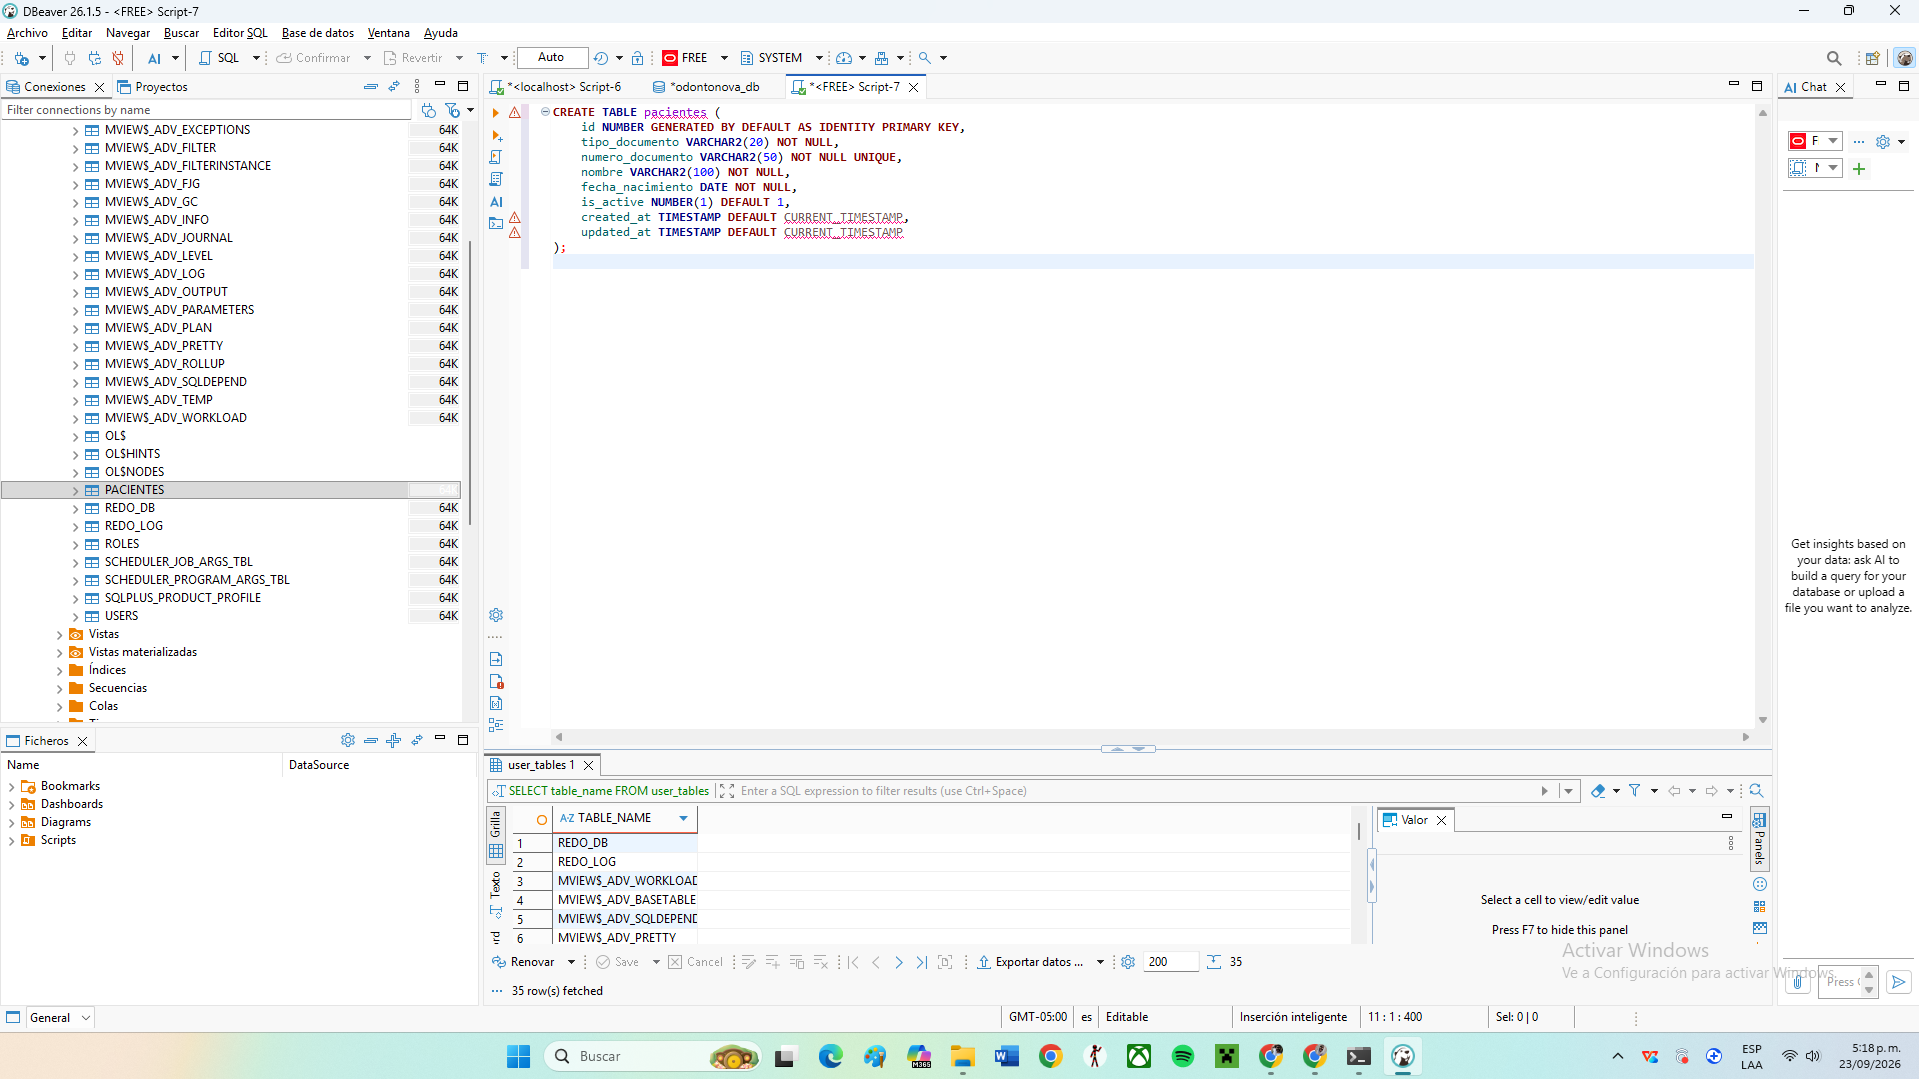
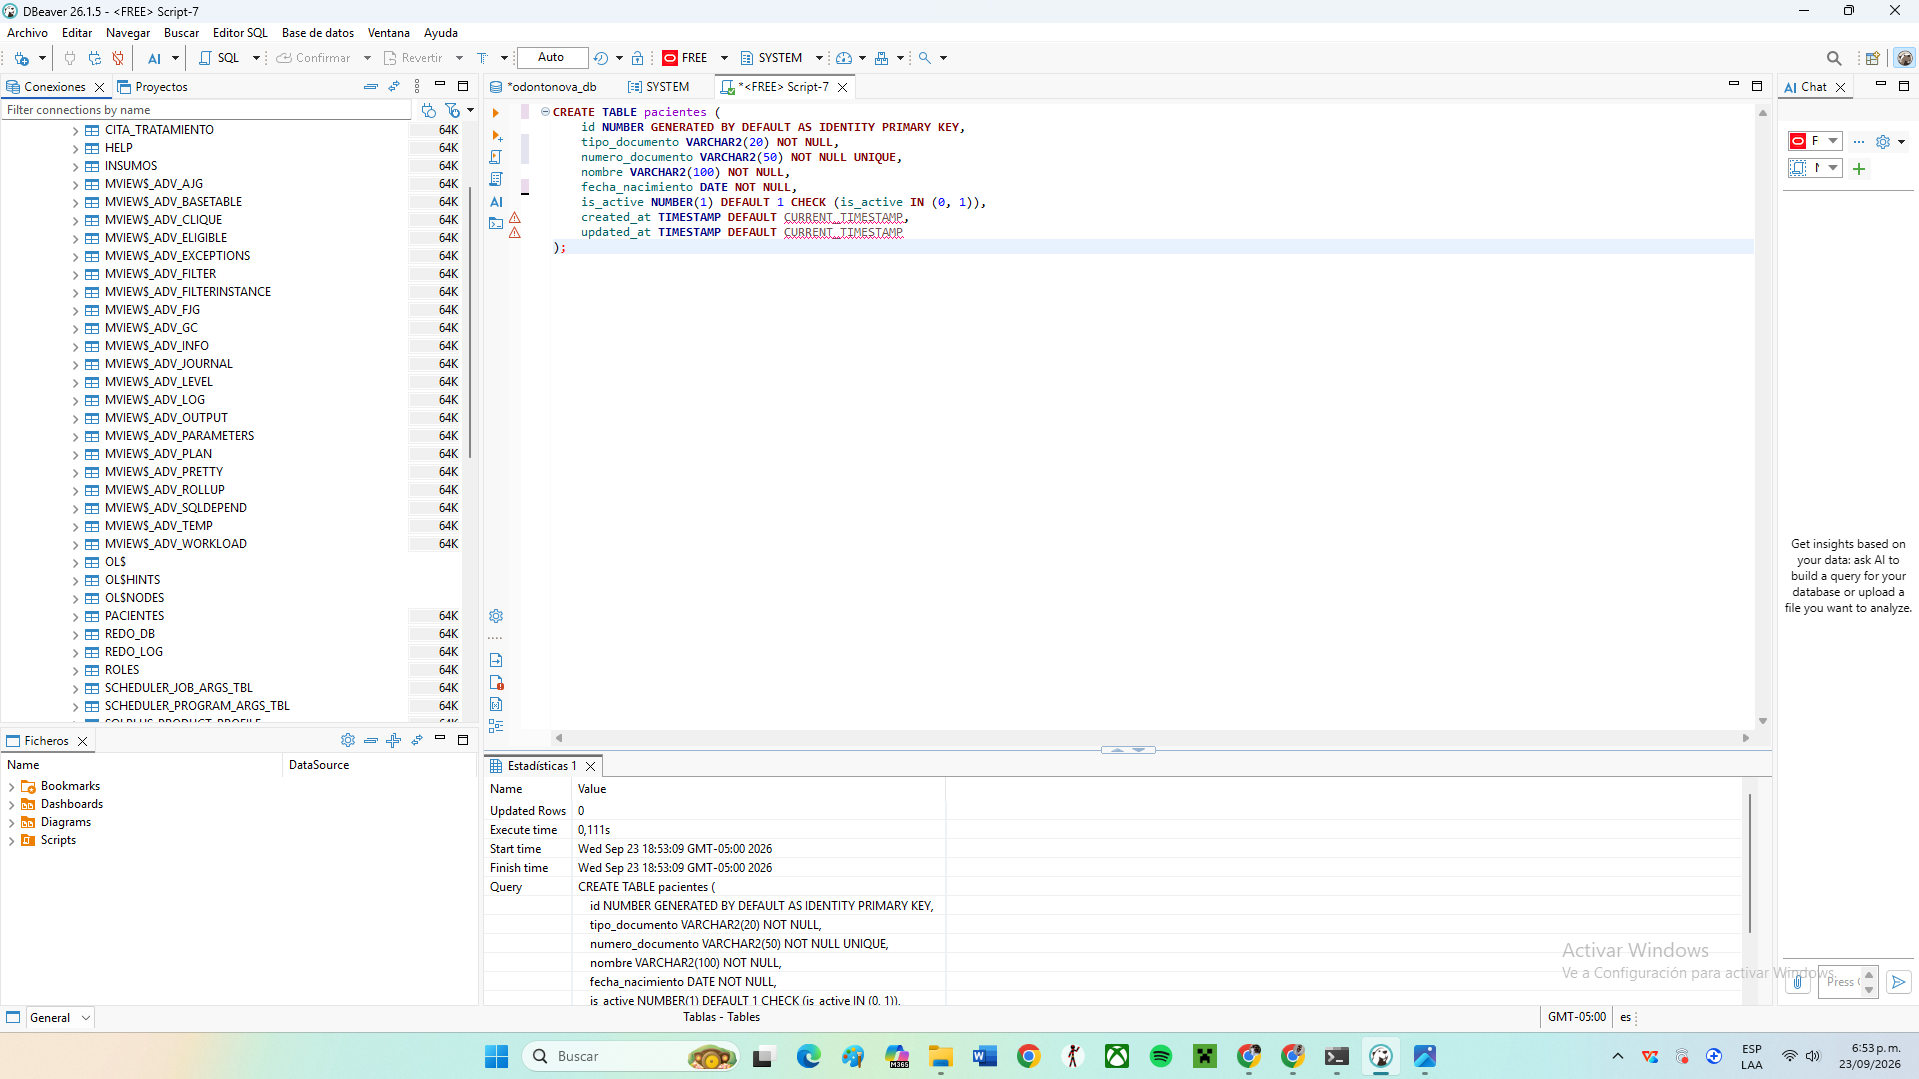
feat: migración completa de OdontoNova a Oracle Database (10 tablas, DDL, DML y evidencias)

diff --git a/OdontoNova/motores/Oracle/README.md b/OdontoNova/motores/Oracle/README.md
@@ -1,52 +1,50 @@
-# 🦷 Migración de OdontoNova a Oracle Database
+# OdontoNova - Implementación en Oracle Database
 
-Documentación y evidencias del proceso de migración del esquema de base de datos **OdontoNova** desde MySQL a **Oracle Database** utilizando DBeaver y Docker.
-
----
-
-## 📌 1. Scripts SQL
-
-* **`schema.sql`**: Definición de estructura (DDL) adaptada a sintaxis nativa de Oracle (`NUMBER GENERATED BY DEFAULT AS IDENTITY`, `VARCHAR2`, `CLOB`, `TIMESTAMP`).
-* **`data.sql`**: Inserción de datos de prueba (DML) para la verificación de integridad relacional.
+Este directorio contiene la implementación del modelo de datos de **OdontoNova** adaptado a **Oracle Database**, manteniendo equivalencia estructural completa con el esquema original de PostgreSQL.
 
 ---
 
-## 📸 2. Evidencias de Creación de Tablas (DDL)
+## 📐 Diagrama Entidad-Relación
 
-### Tabla 1: Pacientes
-![Pacientes](./img/1.png)
-
-### Tabla 2: Odontólogos
-![Odontólogos](./img/2.png)
-
-### Tabla 3: Sillones
-![Sillones](./img/3.png)
-
-### Tabla 4: Citas
-![Citas](./img/4.png)
-
-### Tabla 5: Tratamientos
-![Tratamientos](./img/5.png)
-
-### Tabla 6: Cita Tratamiento
-![Cita Tratamiento](./img/6.png)
-
-### Tabla 7: Historias Clínicas
-![Historias Clínicas](./img/7.png)
-
-### Tabla 8: Pagos
-![Pagos](./img/8.png)
-
-### Tabla 9: Usuarios
-![Usuarios](./img/9.png)
-
-### Tabla 10: Insumos
-![Insumos](./img/10.png)
+![Diagrama de Tablas en Oracle](img/tablas.png)
 
 ---
 
-## 📊 3. Modelo Entidad-Relación (ERD)
+## 🗂 Estructura del Esquema (10 Tablas)
 
-Vista completa de las 10 tablas creadas en el esquema de Oracle Database con sus respectivas llaves primarias y foráneas:
+1. **`pacientes`**: Gestión de pacientes con identificación única y estado activo.
+2. **`odontologos`**: Registro de profesionales odontólogos y especialidades.
+3. **`sillones`**: Control operativo de la disponibilidad de sillones odontológicos.
+4. **`historias_clinicas`**: Información médica, antecedentes y alergias por paciente (Relación 1:1 con `pacientes`).
+5. **`citas`**: Agendamiento de citas asociando paciente, odontólogo y sillón asignado.
+6. **`planes_tratamiento`**: Agrupación de procedimientos recomendados a un paciente.
+7. **`procedimientos`**: Catálogo general de servicios y procedimientos clínicos.
+8. **`detalles_tratamiento`**: Relación N:M (Detalle/Líneas) entre planes de tratamiento y procedimientos.
+9. **`sesiones_clinicas`**: Registro de ejecución efectiva de citas realizadas.
+10. **`pagos`**: Transacciones financieras asociadas a los planes de tratamiento.
 
-![Diagrama ER](./img/tablas.png)
+---
+
+## 🖼 Evidencias de Creación de Tablas
+
+| # | Tabla | Captura |
+|---|---|---|
+| 1 | `pacientes` | ![Pacientes](img/1.png) |
+| 2 | `odontologos` | ![Odontólogos](img/2.png) |
+| 3 | `sillones` | ![Sillones](img/3.png) |
+| 4 | `historias_clinicas` | ![Historias Clínicas](img/4.png) |
+| 5 | `citas` | ![Citas](img/5.png) |
+| 6 | `planes_tratamiento` | ![Planes de Tratamiento](img/6.png) |
+| 7 | `procedimientos` | ![Procedimientos](img/7.png) |
+| 8 | `detalles_tratamiento` | ![Detalles de Tratamiento](img/8.png) |
+| 9 | `sesiones_clinicas` | ![Sesiones Clínicas](img/9.png) |
+| 10 | `pagos` | ![Pagos](img/10.png) |
+
+---
+
+## 🛠 Especificaciones Técnicas (Oracle)
+
+* **Claves Primarias:** Uso de `NUMBER GENERATED BY DEFAULT AS IDENTITY`.
+* **Tipos de Texto:** `VARCHAR2` para cadenas y `CLOB` para campos extensos de texto (`antecedentes`, `motivo`, `descripcion`).
+* **Tipos Temporales:** `TIMESTAMP` para marcas de tiempo y `DATE` para fechas de nacimiento.
+* **Campos Boleanos:** Implementados mediante `NUMBER(1)` con restricción `CHECK (is_active IN (0, 1))`.
